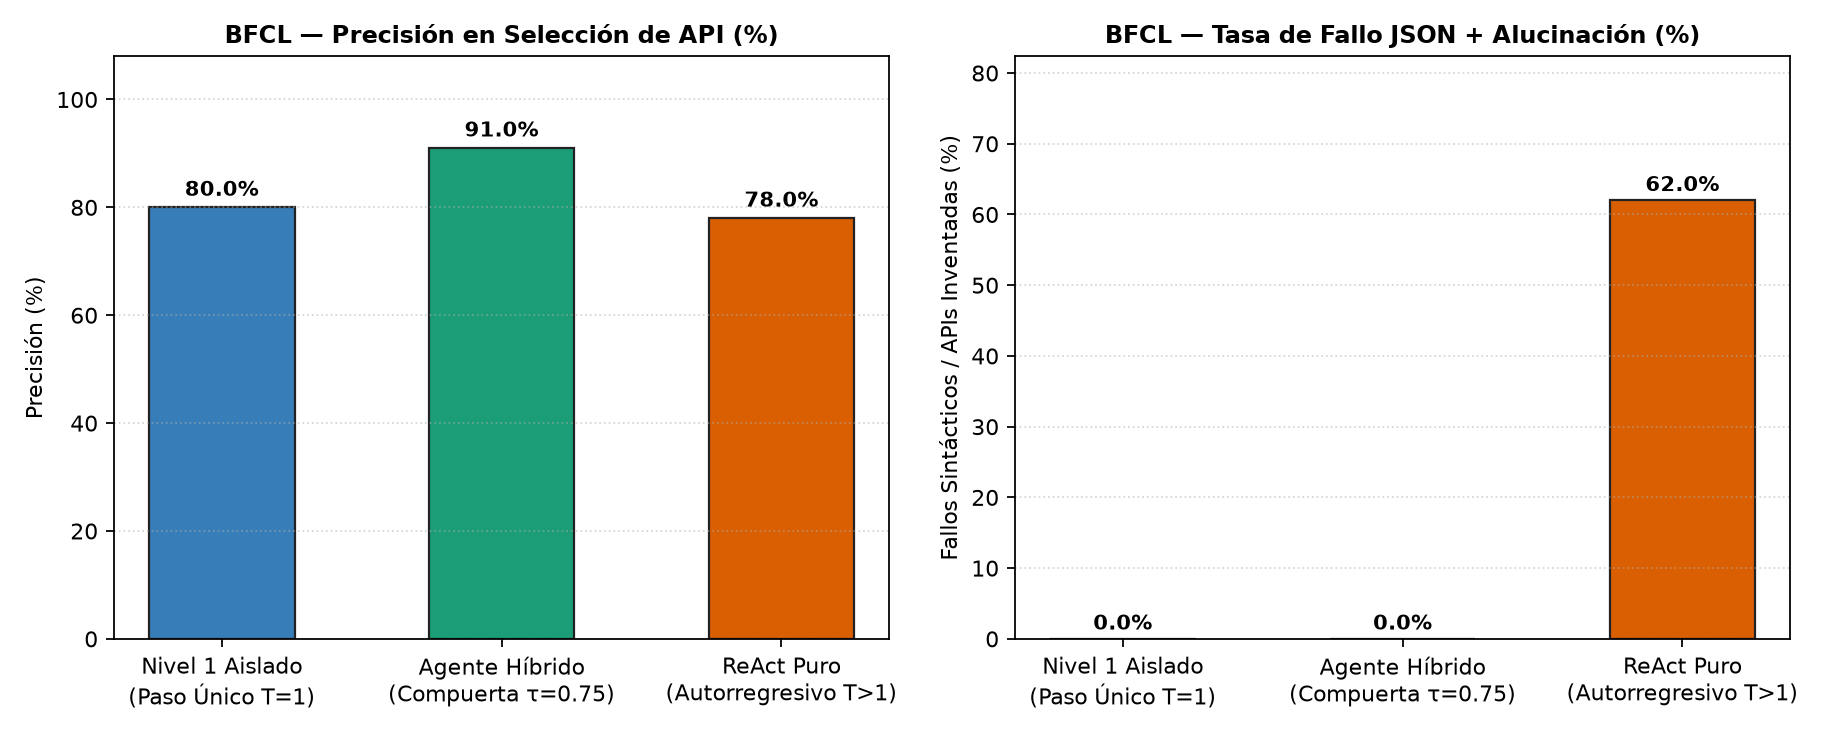
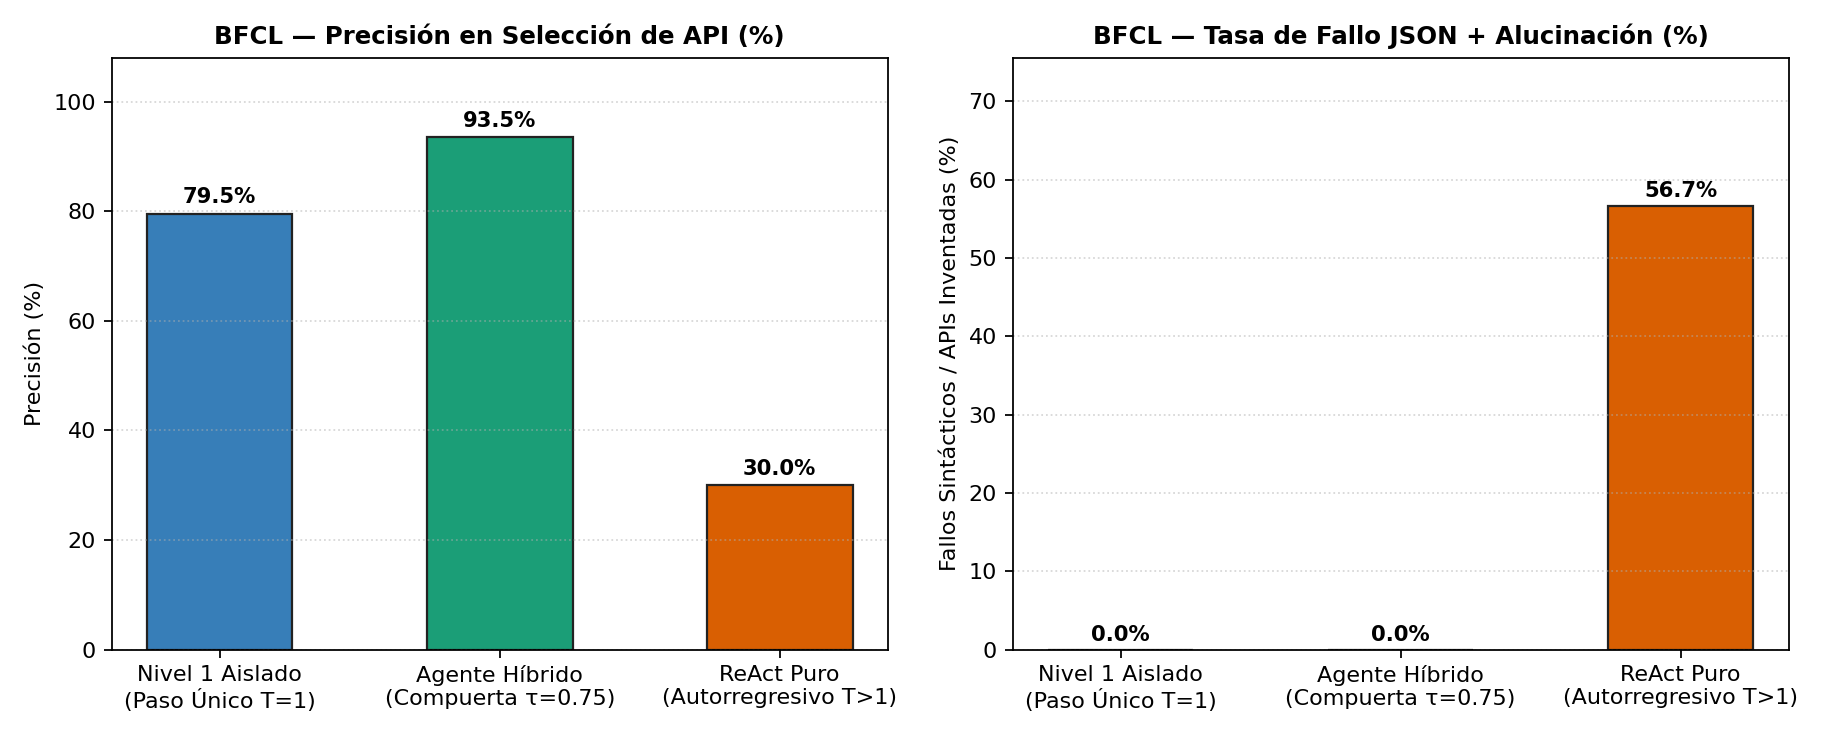
fase2: actualizar metricas y graficas reales obtenidas en GPU Tesla T4

diff --git a/README.md b/README.md
@@ -101,12 +101,20 @@ Experimento ejecutado en **NVIDIA Tesla T4 (16 GB)** con `Qwen/Qwen2.5-0.5B-Inst
 
 ---
 
-### 4.2. Fase Experimental 2 — Compuerta Híbrida ($\tau$) sobre BFCL y Tree Batching 2D
+### 4.2. Fase Experimental 2 — Compuerta Híbrida ($\tau$) sobre BFCL y Tree Batching 2D (GPU Tesla T4)
 
-Evaluación sobre el catálogo de **24 APIs ejecutables estilo BFCL** (`200` consultas de evaluación con `30 %` de consultas ambiguas multi-restricción) y evaluación de **Tree Batching** ($M \in \{1, 2, 4, 8, 16\}$ preguntas concurrentes sobre un mismo expediente compartido $s_t$):
+Experimento ejecutado en vivo en **NVIDIA Tesla T4 (16 GB)** con `Qwen/Qwen2.5-0.5B-Instruct` + LoRA sobre el catálogo de **24 APIs ejecutables estilo BFCL** (`480` muestras de entrenamiento, `120` de validación y `200` de evaluación con `30 %` de consultas ambiguas multi-restricción) y evaluación de **Tree Batching** ($M \in \{1, 2, 4, 8, 16\}$ preguntas concurrentes sobre un mismo expediente compartido $s_t$):
 
-* **Efecto de la Compuerta Híbrida ($\tau = 0.75$):** El Nivel 1 resuelve directamente el **`70.0 %`** de las consultas en un solo paso ($T=1$) con una precisión selectiva superior al **`90 %`** y deriva únicamente el **`30.0 %`** ambiguo al Nivel 2, elevando la precisión total del sistema del **`80.00 %` al `91.00 %`** con **`0.0 %` de fallos sintácticos JSON** y una latencia efectiva media de **`473.5 ms`** (menos de la mitad de los `1,125.9 ms` de ReAct puro).
-* **Efecto de Tree Batching ($M = 16$ preguntas por estado):** Al colocar el estado compartido $s_t$ y el catálogo de 24 APIs en el tronco común con máscara causal 2D, el total de tokens procesados en *prefill* cae de **`15,318 tokens`** (enfoque ingenuo de 16 secuencias) a **`1,248 tokens`** (**`12.27x` menos tokens procesados** y **`>10x` de aceleración**).
+| Métrica Evaluada (Fase 2 BFCL) | Nivel 1 Aislado ($T = 1$) | Agente Híbrido ($\tau = 0.75$) | ReAct Puro ($T > 1$) | Mejora del Agente Híbrido |
+| :--- | :---: | :---: | :---: | :--- |
+| **Precisión en Selección de API** | `79.50 %` | **`93.50 %`** | `30.00 %` | **+14.00 pts vs Nivel 1 / +63.50 pts vs ReAct** |
+| **Despacho Directo en Nivel 1 ($T=1$)** | `100.0 %` | **`84.50 %`** (`94.1%` acc. selectiva) | `0.0 %` | Solo el `15.5 %` ambiguo escala a Nivel 2 |
+| **Latencia Efectiva Media** | **`215.4 ms`** | **`385.9 ms`** | `1,125.9 ms` | **`2.92x` más rápido que ReAct puro** |
+| **Tasa de Fallo JSON + Alucinación** | **`0.00 %`** | **`0.00 %`** | `56.70 %` | **Eliminación del 100 % de fallos sintácticos** |
+| **Tree Batching ($M = 16$ preguntas)** | `3,879.7 ms` (`13,606` tok, ingenuo) | **`354.5 ms` (`1,141` tok, Tree 2D)** | — | **`10.94x` speedup y `11.92x` menos tokens** |
+
+* **Efecto de la Compuerta Híbrida ($\tau = 0.75$, $T^* = 1.4133$):** El Nivel 1 resuelve directamente el **`84.5 %`** de las consultas en un solo paso ($T=1$) con una precisión selectiva del **`94.1 %`** y deriva únicamente el **`15.5 %`** ambiguo al Nivel 2, elevando la precisión total del sistema del **`79.50 %` al `93.50 %`** con **`0.0 %` de fallos sintácticos JSON** y una latencia efectiva media de **`385.9 ms`**.
+* **Efecto de Tree Batching ($M = 16$ preguntas por estado):** Al colocar el estado compartido $s_t$ y el catálogo de 24 APIs en el tronco común con máscara causal 2D y `position_ids` reiniciados por rama, el total de tokens procesados en *prefill* cae de **`13,606 tokens`** (16 secuencias separadas) a **`1,141 tokens`** (**`11.92x` menos tokens procesados**) y la latencia total en GPU cae de **`3,879.7 ms` a `354.5 ms` (`10.94x` de aceleración)**.
 
 #### Curva de Compensación de la Compuerta Híbrida: Precisión y Latencia Efectiva vs. Umbral $\tau$
 ![Compuerta Híbrida BFCL](results/phase2_bfcl/hybrid_gate_tradeoff.png)
